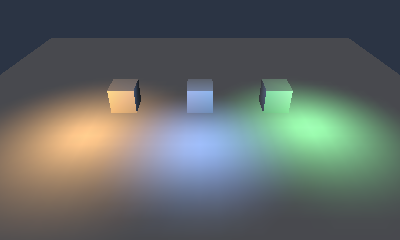
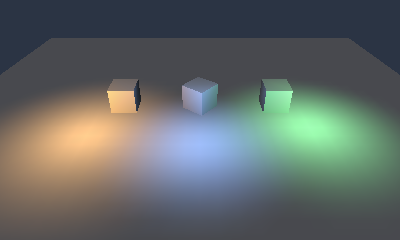
ctr: light moving nodes with lamps on the GPU
scene.v.pica takes the four lamps each draw takes, as lampPosition and
lampColour, and adds their light at the vertices with the same smoothstep
fade as a bake. A node marked Moving was lit by the sun and the sky only.
cmd/lamps3ds turns its middle cube to show it.

Changed region(s): [[0.45, 0.3208, 0.57, 0.4958]]

diff --git a/ctr/scene.go b/ctr/scene.go
@@ -101,8 +101,9 @@ var bakedShaderBinary []byte
 // Lighting every vertex on the GPU was too slow (30 frames a second for the sample island on a
 // New 3DS XL), so meshes are drawn with their light worked out on the processor (bake.go) through
 // baked.v.pica. Water, whose reflection depends on the camera, and moving nodes (scene.Node's
-// Moving), whose light changes as they turn, are shaded on the GPU by scene.v.pica: baking a ship
-// again each time it turned took most of a frame with a few dozen of them.
+// Moving), whose light changes as they turn, are shaded on the GPU by scene.v.pica, with the four
+// lamps each draw takes: baking a ship again each time it turned took most of a frame with a few
+// dozen of them.
 type SceneRenderer struct {
 	screen      *Screen
 	water       *Shader
@@ -134,6 +135,7 @@ type waterLocations struct {
 	viewProjection, camera, sunDirection, sunColour, ambientGround, ambientSpan int
 	waterLight, skyReflection, fogColour, settings, fog                         int
 	model, normalMatrix, baseColour, weights, minimumAlpha                      int
+	lampPosition, lampColour                                                    int
 }
 
 // bakedLocations are where baked.v.pica reads each uniform.
@@ -168,6 +170,7 @@ func NewSceneRenderer(screen *Screen) (*SceneRenderer, error) {
 		model: water.Uniform("model"), normalMatrix: water.Uniform("normalMatrix"),
 		baseColour: water.Uniform("baseColour"), weights: water.Uniform("weights"),
 		minimumAlpha: water.Uniform("minimumAlpha"),
+		lampPosition: water.Uniform("lampPosition"), lampColour: water.Uniform("lampColour"),
 	}
 	renderer.bakedPlaces = bakedLocations{
 		viewProjection: baked.Uniform("viewProjection"), camera: baked.Uniform("camera"),
@@ -376,6 +379,11 @@ func (renderer *SceneRenderer) prepareShaded(command sceneplan.Command) {
 	normal := sceneplan.NormalMatrix(command.World) // column by column
 	for row := range 3 {
 		setVector(places.normalMatrix+row, graphics.Vec4{normal[row], normal[3+row], normal[6+row], 0})
+	}
+	lamps := lampUniformsOf(command.Lights, renderer.frame.Lights)
+	for slot := range lamps.positions {
+		setVector(places.lampPosition+slot, lamps.positions[slot])
+		setVector(places.lampColour+slot, lamps.colours[slot])
 	}
 }
 

diff --git a/ctr/bake_test.go b/ctr/bake_test.go
@@ -141,3 +141,42 @@ func TestAMovingLampBakesAgainAndAStillOneDoesNot(t *testing.T) {
 		t.Error("a lamp switched off would not bake again")
 	}
 }
+
+// shaderLampLight is scene.v.pica's lamp light, step by step, from the uniforms it reads.
+func shaderLampLight(uniforms lampUniforms, world, normal graphics.Vec4) graphics.Vec4 {
+	var total graphics.Vec4
+	for slot := range uniforms.positions {
+		position, colour := uniforms.positions[slot], uniforms.colours[slot]
+		towards := graphics.Vec4{position[0] - world[0], position[1] - world[1], position[2] - world[2], 0}
+		distance := float32(math.Sqrt(float64(max(towards.Dot(towards), 1e-5))))
+		facing := max(normal.Dot(towards)/distance, 0)
+		share := min(max((distance-position[3])*colour[3], 0), 1)
+		fade := 1 - share*share*(3-2*share)
+		for channel := range 3 {
+			total[channel] += colour[channel] * facing * fade
+		}
+	}
+	return total
+}
+
+func TestAMovingNodeIsLitOnTheGPUAsABakedOneIs(t *testing.T) {
+	lamps := lampAbove()
+	lamps.lights[1] = sceneplan.FrameLight{Position: graphics.Vec4{2, 0.5, 0, 1}, Color: graphics.Vec4{0, 0.5, 1, 1}, Inner: 0, Outer: 4}
+	lamps.count = 2
+	frameLights := lamps.lights[:2]
+	uniforms := lampUniformsOf(sceneplan.DrawLights{Indices: [4]uint16{0, 1}, Count: 2}, frameLights)
+	up := graphics.Vec4{0, 1, 0, 0}
+	for _, position := range [][]float32{{0, 0, 0}, {1, 0, 0}, {2.5, 0, 0}, {10, 0, 0}} {
+		baked := lamps.lightAt(position, up, 1)
+		shaded := shaderLampLight(uniforms, graphics.Vec4{position[0], position[1], position[2], 1}, up)
+		for channel := range 3 {
+			if math.Abs(float64(baked[channel]-shaded[channel])) > 1e-4 {
+				t.Errorf("at %v the GPU's lamps give %v, the bake %v", position, shaded, baked)
+				break
+			}
+		}
+	}
+	if uniforms.colours[2] != (graphics.Vec4{}) {
+		t.Errorf("an unused lamp's colour is %v, wanted none", uniforms.colours[2])
+	}
+}

diff --git a/cmd/lamps3ds/main.go b/cmd/lamps3ds/main.go
@@ -3,7 +3,8 @@
 // Three lamps over a floor at night on the Nintendo 3DS: an orange, a blue and a green point light
 // beside three grey cubes. The 3DS bakes their light into the meshes' colours with the sun's, so
 // the lamps cost nothing a frame while they stand still; the blue one moves when A is held, to
-// show what baking again costs.
+// show what baking again costs. The middle cube turns, marked Moving, so it is lit on the GPU
+// every frame instead, lamps and all.
 //
 //	tinygo build -target=nintendo3ds -o lamps3ds.3dsx ./cmd/lamps3ds
 package main
@@ -17,6 +18,9 @@ import (
 
 // lampStep is how far the blue lamp moves each frame A is held, in world units.
 const lampStep = 0.05
+
+// turnStep is how far the middle cube turns each frame, in radians.
+const turnStep = 0.02
 
 // The floor is twenty units across in cells of half a unit: the 3DS lights by vertex, so a lamp's
 // pool of light shows on a floor only where it has vertices to light.
@@ -64,6 +68,8 @@ func main() {
 		if reading.Held&ctr.ButtonA != 0 {
 			world.Lights[1].Position[0] = wrapped(world.Lights[1].Position[0] + lampStep)
 		}
+		turning := world.Nodes[2]
+		turning.Transform = graphics.Translate(graphics.Vec4{0, 0.5, -1, 0}).Multiply(graphics.RotateY(float64(frame) * turnStep))
 		renderer.Draw(world, camera)
 		if frame%60 == 0 {
 			println("bakes so far:", renderer.Bakes())
@@ -109,7 +115,7 @@ func lampWorld() (*scene.Scene, models.Camera) {
 	for index, x := range []float32{-3, 0, 3} {
 		cube := cubeMesh(graphics.Vec4{0.8, 0.8, 0.8, 1})
 		world.Nodes = append(world.Nodes, &scene.Node{Name: "cube" + string(rune('a'+index)), Mesh: cube,
-			Transform: graphics.Translate(graphics.Vec4{x, 0.5, -1, 0})})
+			Transform: graphics.Translate(graphics.Vec4{x, 0.5, -1, 0}), Moving: x == 0})
 	}
 	{
 		world.Lights = []scene.PointLight{

diff --git a/ctr/bake.go b/ctr/bake.go
@@ -45,6 +45,28 @@ func lampKeyOf(lights sceneplan.DrawLights, frameLights []sceneplan.FrameLight, 
 	return key
 }
 
+// lampUniforms are the lamps a draw takes as scene.v.pica reads them, for a node lit on the GPU
+// (a moving one): each position with its inner radius in w, and each colour with one over the
+// width of its fade in w. A lamp the draw does not take has no colour, so it adds nothing.
+type lampUniforms struct {
+	positions, colours [sceneplan.MaxLightsPerDraw]graphics.Vec4
+}
+
+// smallestFadeWidth keeps a lamp's fade from dividing by zero; sceneplan already keeps the inner
+// radius below the outer one.
+const smallestFadeWidth = 1e-4
+
+func lampUniformsOf(lights sceneplan.DrawLights, frameLights []sceneplan.FrameLight) lampUniforms {
+	var uniforms lampUniforms
+	for slot, index := range lights.Indices[:lights.Count] {
+		light := &frameLights[index]
+		uniforms.positions[slot] = graphics.Vec4{light.Position[0], light.Position[1], light.Position[2], light.Inner}
+		fadeWidth := max(light.Outer-light.Inner, smallestFadeWidth)
+		uniforms.colours[slot] = graphics.Vec4{light.Color[0], light.Color[1], light.Color[2], 1 / fadeWidth}
+	}
+	return uniforms
+}
+
 // closeTo tells whether two draws' lamps light alike: a lamp that moves by less than about a
 // colour step does not make its meshes bake again.
 func (lamps lampKey) closeTo(other lampKey) bool {

diff --git a/docs/4-guides/8-3ds.md b/docs/4-guides/8-3ds.md
@@ -120,12 +120,13 @@ between its corners, and one cut into a grid (a terrain is one) shows it. Every 
 by under lamps keeps a bake of its own (up to 64 a mesh), since each stands in a different light.
 A node that moves under lamps without being marked Moving is baked again every frame it moves,
 its old bakes given back once the 64 are used: mark it Moving. A node marked Moving is lit on the
-GPU instead, by the sun and the sky only: lamps leave it as it is for now. Instances (a forest)
+GPU instead, by the sun, the sky and the four lamps the planner chose for it, at its vertices as a
+bake is (the turning cube in `cmd/lamps3ds`). Instances (a forest)
 take the lamps that reach any of them, listed in a fixed order so that the camera moving does not
 bake them again.
 
 <p align="center">
-  <img alt="The 3DS's top screen: a floor at night with three cubes, an orange, a blue and a green pool of light around them" src="../images/3ds-lamps.png" width="400">
+  <img alt="The 3DS's top screen: a floor at night with three cubes, an orange, a blue and a green pool of light around them; the middle cube, turning, lit blue" src="../images/3ds-lamps.png" width="400">
 </p>
 
 ### 2D lights
